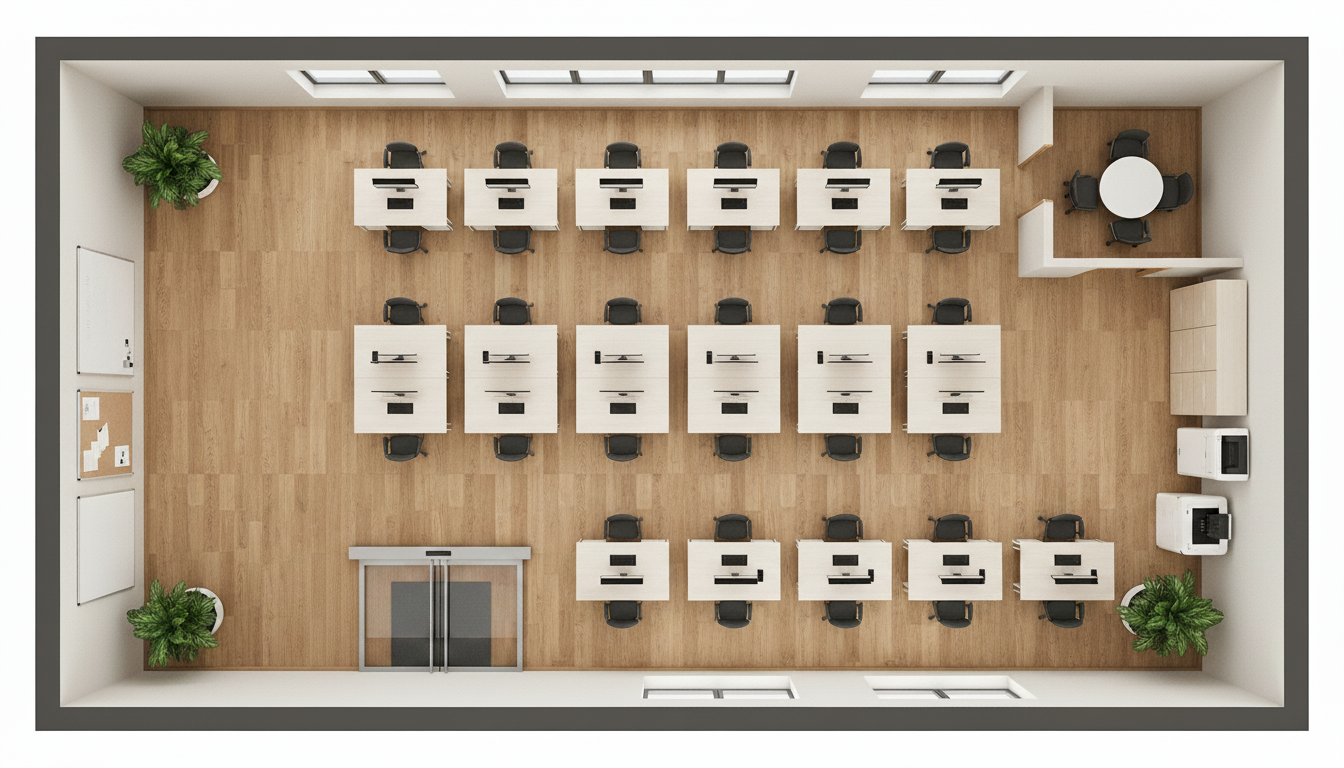
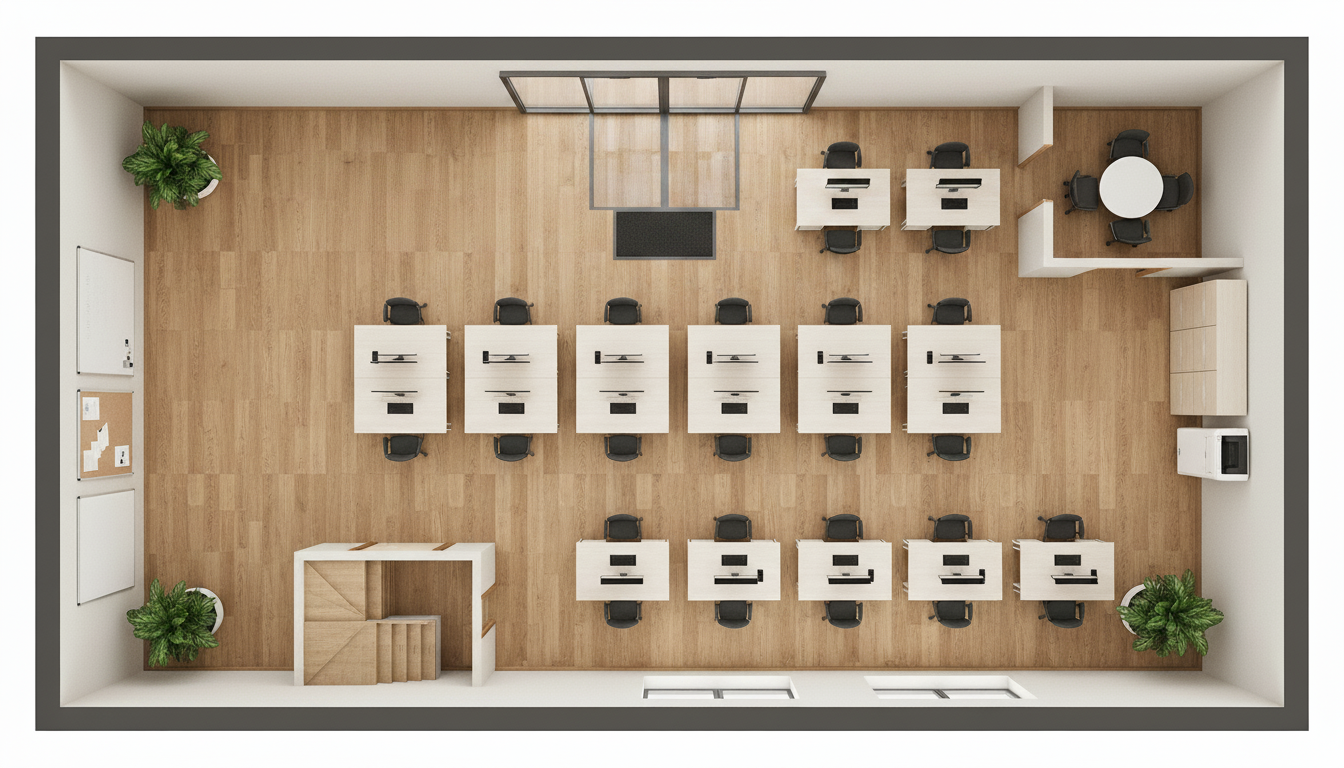
2F: 上中央(正面)の窓を玄関入口に置換+登場位置を上中央へ
Gemini image-editで上壁の中央窓→両開きガラス自動ドアに置換 (他はピクセル維持)。
左下階段・全15デスク・備品・備品は全て元のまま。登場位置 (672,678→672,110) に変更。

Changed region(s): [[0.2188, 0.0938, 0.7812, 0.375], [0.1875, 0.6875, 0.4062, 0.9062], [0.8438, 0.625, 0.9375, 0.7812]]

diff --git a/scripts/edit_office_entrance.js b/scripts/edit_office_entrance.js
@@ -10,20 +10,25 @@ const path = require('path');
   const srcPath = path.join(__dirname, '..', 'public', 'assets', 'floor_office.png');
   const ref = fs.readFileSync(srcPath).toString('base64');
 
-  const prompt = `Edit this top-down office floor plan image.
+  const prompt = `Edit this top-down orthographic floor plan of an office. I need you to modify ONLY the thin wall line at the very UPPER EDGE of the image (the topmost ~5% horizontal strip of the canvas — the wall between the outside of the building and the office interior).
 
-KEEP ABSOLUTELY EVERYTHING IDENTICAL: all 15 desks, 15 chairs, monitors, plants, walls, windows, furniture — do NOT move, add, or remove any item except as specified below.
+Current state of that upper wall strip: it has several small rectangular GLASS WINDOWS evenly spaced along it.
 
-THE ONLY CHANGE: the BOTTOM WALL.
-1. REMOVE the staircase currently at the BOTTOM-LEFT corner completely — replace with plain wooden floor and plant corner decoration matching the other corners.
-2. At the HORIZONTAL CENTER of the BOTTOM WALL (from about 44% to 56% of total image width): create a CLEAR DOORWAY OPENING. This looks like:
-   - A break in the bottom wall about 12-15% of the total image width wide
-   - Double glass automatic sliding doors set flush into the wall (shown from above as two narrow parallel dark rectangles with thin metal frames)
-   - A small dark welcome mat (rectangle) on the wooden floor just inside the doorway
-   - The opening should look like a professional Japanese office front entrance viewed directly from above
-3. The breakroom, printer, filing cabinets, whiteboards, windows, and ALL 15 desks must remain PIXEL-EXACT in their current positions.
+Desired change:
+1. DELETE those windows entirely. The upper wall strip becomes one continuous solid beige/white wall with NO glass openings.
+2. Then, at the EXACT HORIZONTAL MIDDLE of that upper wall (from pixel x=42% to x=58% of image width), REPLACE THAT MIDDLE SECTION OF WALL with a wide entrance opening. The opening is SHOWN AS:
+   - A gap in the wall line
+   - Two tall rectangular glass panels (silver-framed) side by side filling the gap — these are the two leaves of a sliding double door
+   - A thin dark threshold strip spanning across the opening at floor level
+3. DIRECTLY INSIDE the office (on the wooden floor, just a few pixels below the top wall, centered on the entrance): a small dark rectangular welcome mat (oriented horizontally, perpendicular to the flow of entering people).
 
-Style: match the existing top-down orthographic rendering, same lighting, same wooden floor texture. NO text, NO logos.`;
+CRITICAL CONSTRAINTS:
+- The entrance appears ONLY within the topmost ~8% of the image height (the wall strip + mat area).
+- Do NOT add any entrance, door, mat, glass, or opening anywhere else in the image.
+- Do NOT alter the wooden floor, the desks, the chairs, the bottom-left staircase, the plants, the breakroom, or any other furniture.
+- Do NOT add any text or logos.
+
+Preserve the top-down orthographic projection, overall lighting, warm wooden floor, beige walls.`;
 
   const body = {
     contents: [{

diff --git a/server/services/db.js b/server/services/db.js
@@ -27,6 +27,9 @@ function getDb() {
   _db.prepare(`UPDATE floors SET entry_x=672, entry_y=678
                WHERE code IN ('lobby','office','meeting_a','meeting_b','meeting_c')
                  AND entry_x=180 AND entry_y=230`).run();
+  // 2F事務フロアは正面玄関(上中央)に変更
+  _db.prepare(`UPDATE floors SET entry_x=672, entry_y=110
+               WHERE code='office' AND entry_x=672 AND entry_y=678`).run();
   return _db;
 }
 
